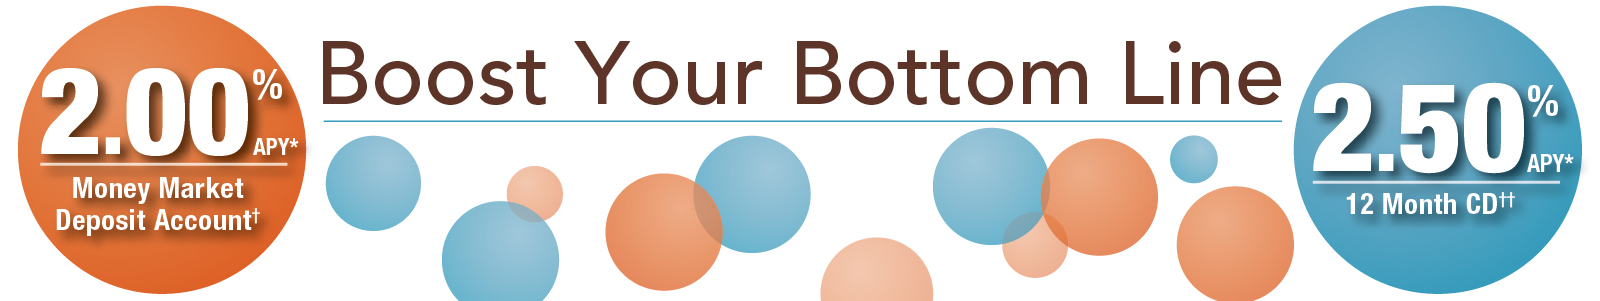
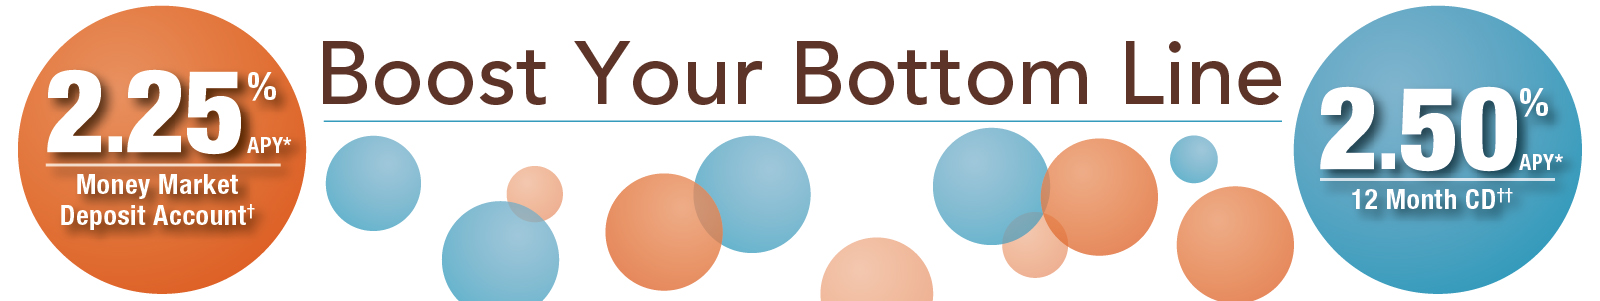
Updated images and changed Promotional Rate to 2.25

Changed region(s): [[0.0, 0.2093, 0.1875, 0.8073], [0.8125, 0.2691, 1.0, 0.7475]]

diff --git a/savings.html b/savings.html
@@ -137,7 +137,7 @@
               </div>
             </div><!-- row -->
             <div class="row spacer">
-              <p class="small para-margin"><sup>*</sup>Annual Percentage Yield (APY) <sup>†</sup>Money Market Deposit Account: Promotional rate of 2.00% APY for new accounts effective as of 10/15/18 and guaranteed for the first 365 days after account opening. Promotional rate offered on $10,000.00 or more of new money not currently on deposit within last 30 days with CIBM Bank. Minimum opening deposit of $100.00. The interest rate is subject to change at any time after initial 365 days. As of 10/10/18 Personal Money Market balances of $0.00-$9,999.99 (.08% APY); $10,000.00-$24,999.99 (.10% APY); $25,000.00-$49,999.99 (.13% APY); $50,000.00-$99,999.99 (.14% APY); $100,000.00 and above (.15% APY). Monthly fee $2.00 per debit if $1,000.00 minimum balance not maintained. As of 10/10/18 Business Money Market balances of $0.00-$9,999.99 (.08% APY); $10,000.00-$24,999.99 (.10% APY); $25,000.00-$49,999.99 (.13% APY); $50,000.00-$99,999.99 (.14% APY); $100,000.00 and above (.15% APY). Monthly fee $15.00 service charge if $5,000.00 minimum balance not maintained. Fees may reduce earnings. Accounts closed within 6 months of opening date subject to a $25.00 closing fee.  <sup>††</sup>12 Month Certificate of Deposit & IRA: Promotional rate of 2.50% (APY) effective as of 10/29/18 and guaranteed for the term of the account. Offer limited to $10,000.00 or more of new money not currently on deposit within last 30 days with CIBM Bank. Minimum opening deposit of $2,500.00 and a maximum of $250,000.00. Withdrawals made prior to maturity may be subject to an early withdrawal penalty. Offer not available in combination with any other offer.</p>
+              <p class="small para-margin"><sup>*</sup>Annual Percentage Yield (APY) <sup>†</sup>Money Market Deposit Account: Promotional rate of 2.25% APY for new accounts effective as of 11/11/18 and guaranteed for the first 365 days after account opening. Promotional rate offered on $10,000.00 or more of new money not currently on deposit within last 30 days with CIBM Bank. Minimum opening deposit of $100.00. The interest rate is subject to change at any time after initial 365 days. As of 10/10/18 Personal Money Market balances of $0.00-$9,999.99 (.08% APY); $10,000.00-$24,999.99 (.10% APY); $25,000.00-$49,999.99 (.13% APY); $50,000.00-$99,999.99 (.14% APY); $100,000.00 and above (.15% APY). Monthly fee $2.00 per debit if $1,000.00 minimum balance not maintained. As of 10/10/18 Business Money Market balances of $0.00-$9,999.99 (.08% APY); $10,000.00-$24,999.99 (.10% APY); $25,000.00-$49,999.99 (.13% APY); $50,000.00-$99,999.99 (.14% APY); $100,000.00 and above (.15% APY). Monthly fee $15.00 service charge if $5,000.00 minimum balance not maintained. Fees may reduce earnings. Accounts closed within 6 months of opening date subject to a $25.00 closing fee.  <sup>††</sup>12 Month Certificate of Deposit & IRA: Promotional rate of 2.50% (APY) effective as of 10/29/18 and guaranteed for the term of the account. Offer limited to $10,000.00 or more of new money not currently on deposit within last 30 days with CIBM Bank. Minimum opening deposit of $2,500.00 and a maximum of $250,000.00. Withdrawals made prior to maturity may be subject to an early withdrawal penalty. Offer not available in combination with any other offer.</p>
             </div><!-- row -->
             <div class="row spacer">
               <div class="col-md-6">
